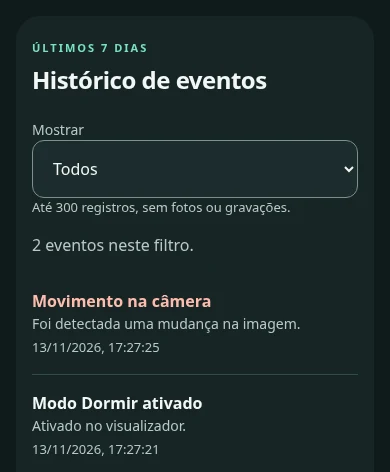
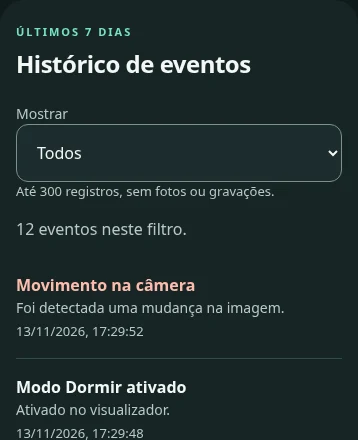
Capture only a compact, correctly aligned history detail

diff --git a/docs/DEMO.md b/docs/DEMO.md
@@ -90,4 +90,4 @@ Ao terminar, interrompa a fonte e a ponte com Ctrl+C. Nenhum túnel ou endpoint 
 
 `docs/media/demo-room.webp` é a cena fictícia gerada para a apresentação. `tools/scene-source.py` a publica somente no loopback, com uma pequena animação e a identificação DEMO no vídeo quando a fonte de texto está disponível. Não recebe imagem de uma câmera real e não altera a implementação de produção.
 
-As capturas principal e móvel focam o painel de vídeo, evitando áreas vazias da página. O histórico é um recorte de 472 px e fica recolhido no README. O padrão de barras de teste anterior continua disponível em `apps/android/scripts/rtsp_fixture.py` para diagnóstico técnico, mas não é a vitrine visual do projeto.
+As capturas principal e móvel focam o painel de vídeo, evitando áreas vazias da página. O histórico é um recorte de 440 px e fica recolhido no README. O padrão de barras de teste anterior continua disponível em `apps/android/scripts/rtsp_fixture.py` para diagnóstico técnico, mas não é a vitrine visual do projeto.

diff --git a/docs/PUBLIC-VALIDATION.md b/docs/PUBLIC-VALIDATION.md
@@ -22,4 +22,4 @@ Os testes foram executados em Linux. Não houve uma nova validação de hardware
 
 ## Atualização das imagens de demonstração
 
-A apresentação usa uma cena doméstica fictícia gerada por IA, publicada por uma fonte RTSP de loopback e convertida pela ponte. O script de captura verifica avanço real do reprodutor, presença do vídeo e ausência de erros JavaScript. Nenhuma imagem doméstica foi usada. O histórico foi reduzido a um recorte de 472 px e está recolhido no README. O controle físico continua fora do escopo da demonstração.
+A apresentação usa uma cena doméstica fictícia gerada por IA, publicada por uma fonte RTSP de loopback e convertida pela ponte. O script de captura verifica avanço real do reprodutor, presença do vídeo e ausência de erros JavaScript. Nenhuma imagem doméstica foi usada. O histórico foi reduzido a um recorte de 440 px e está recolhido no README. O controle físico continua fora do escopo da demonstração.
